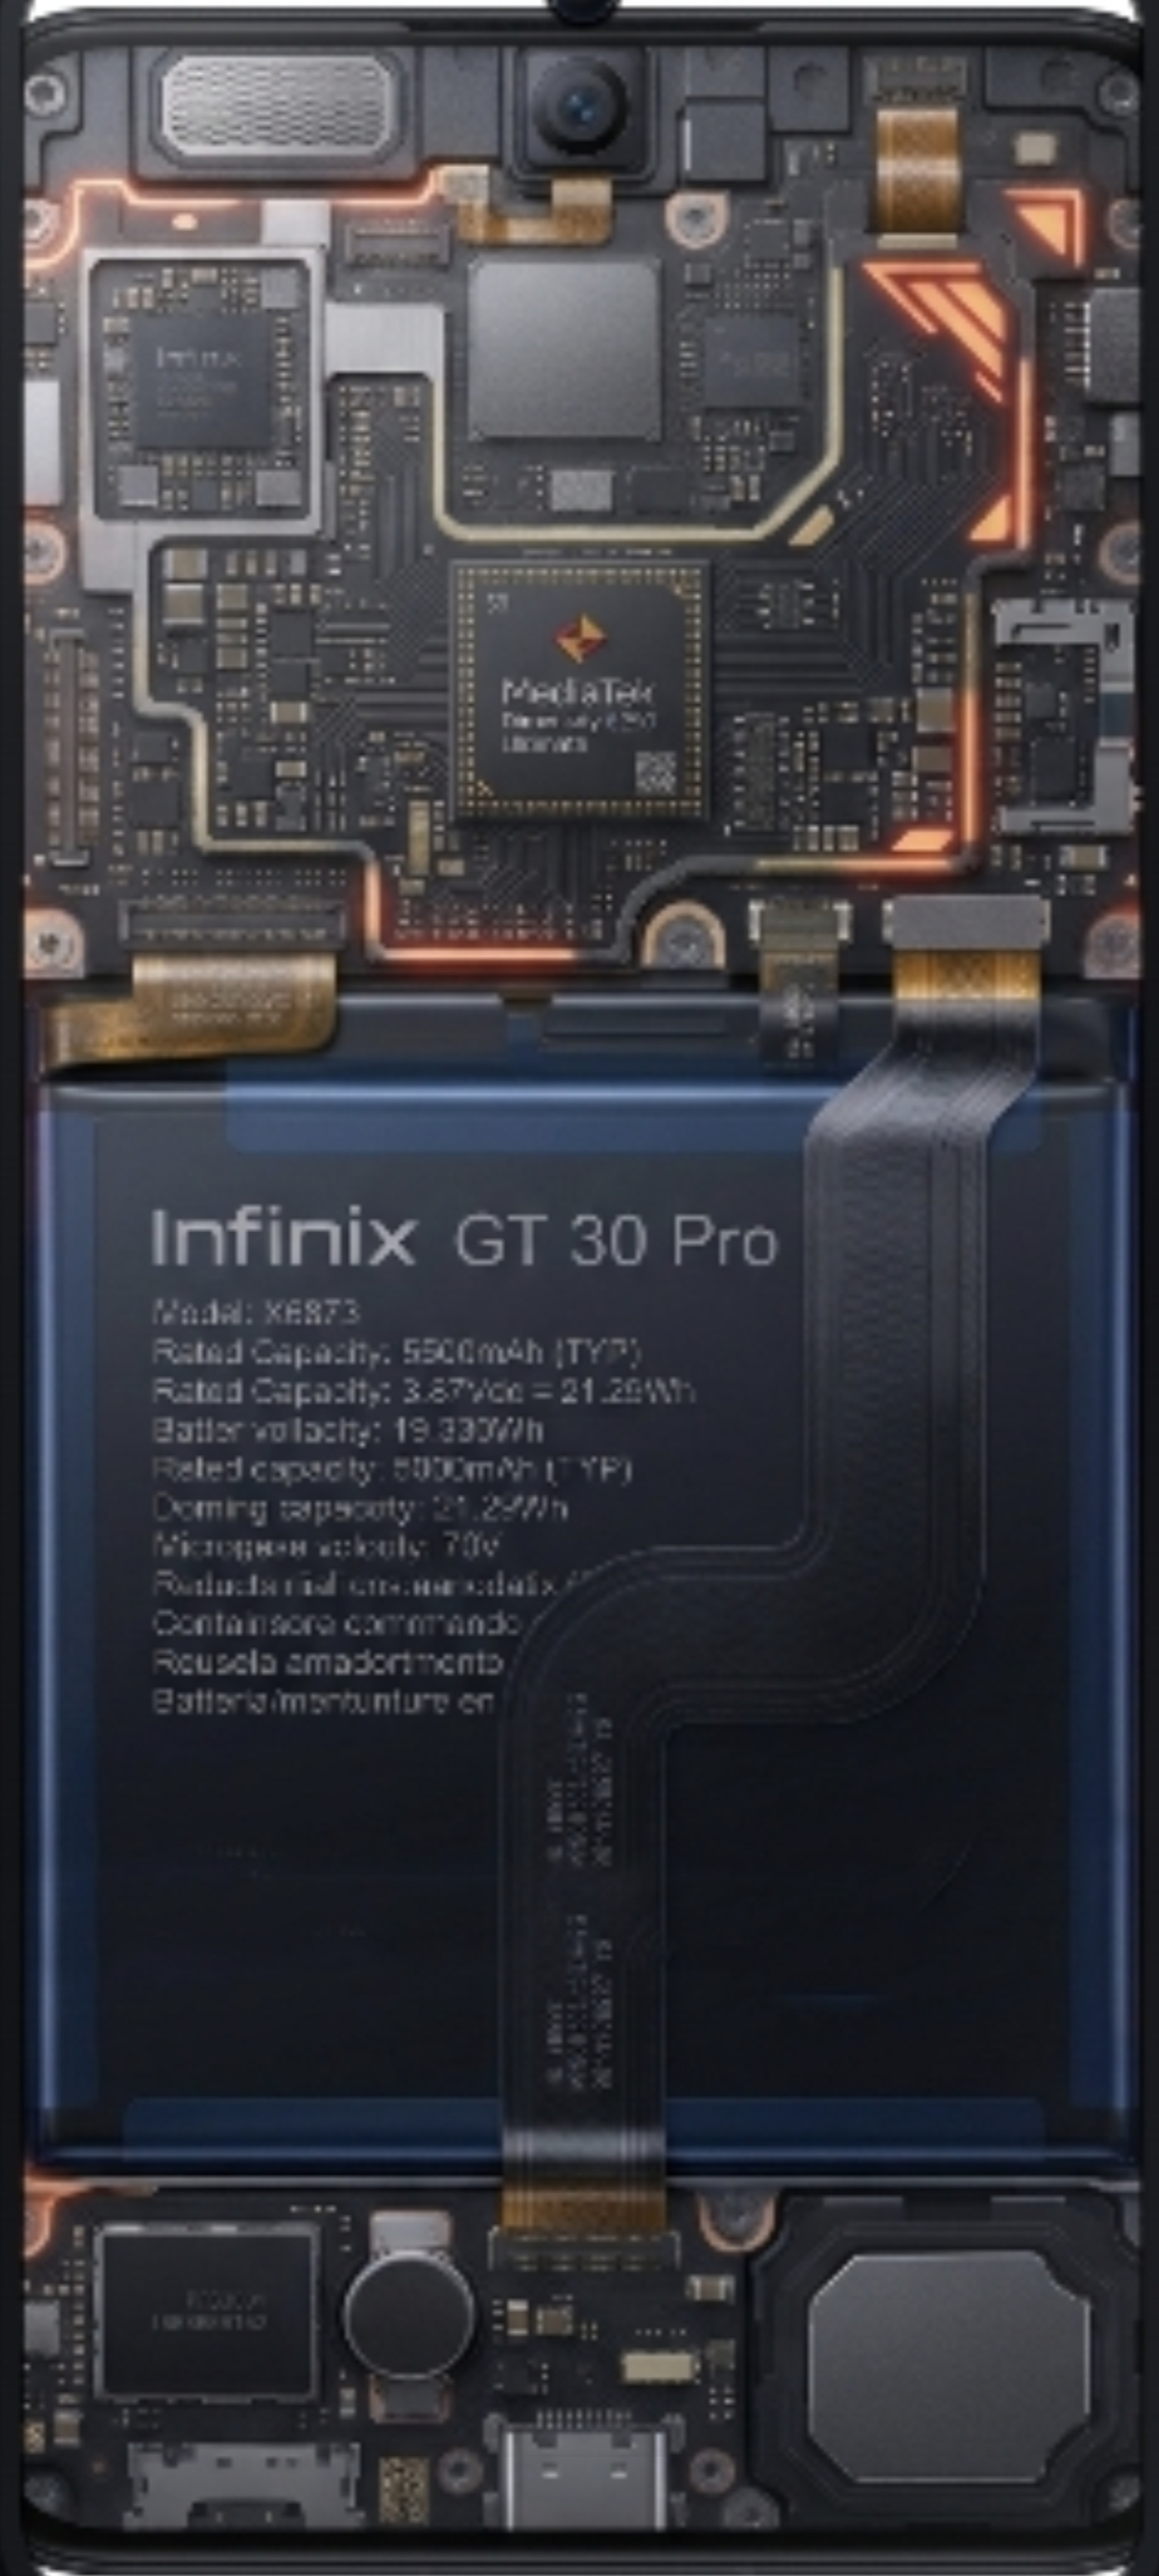
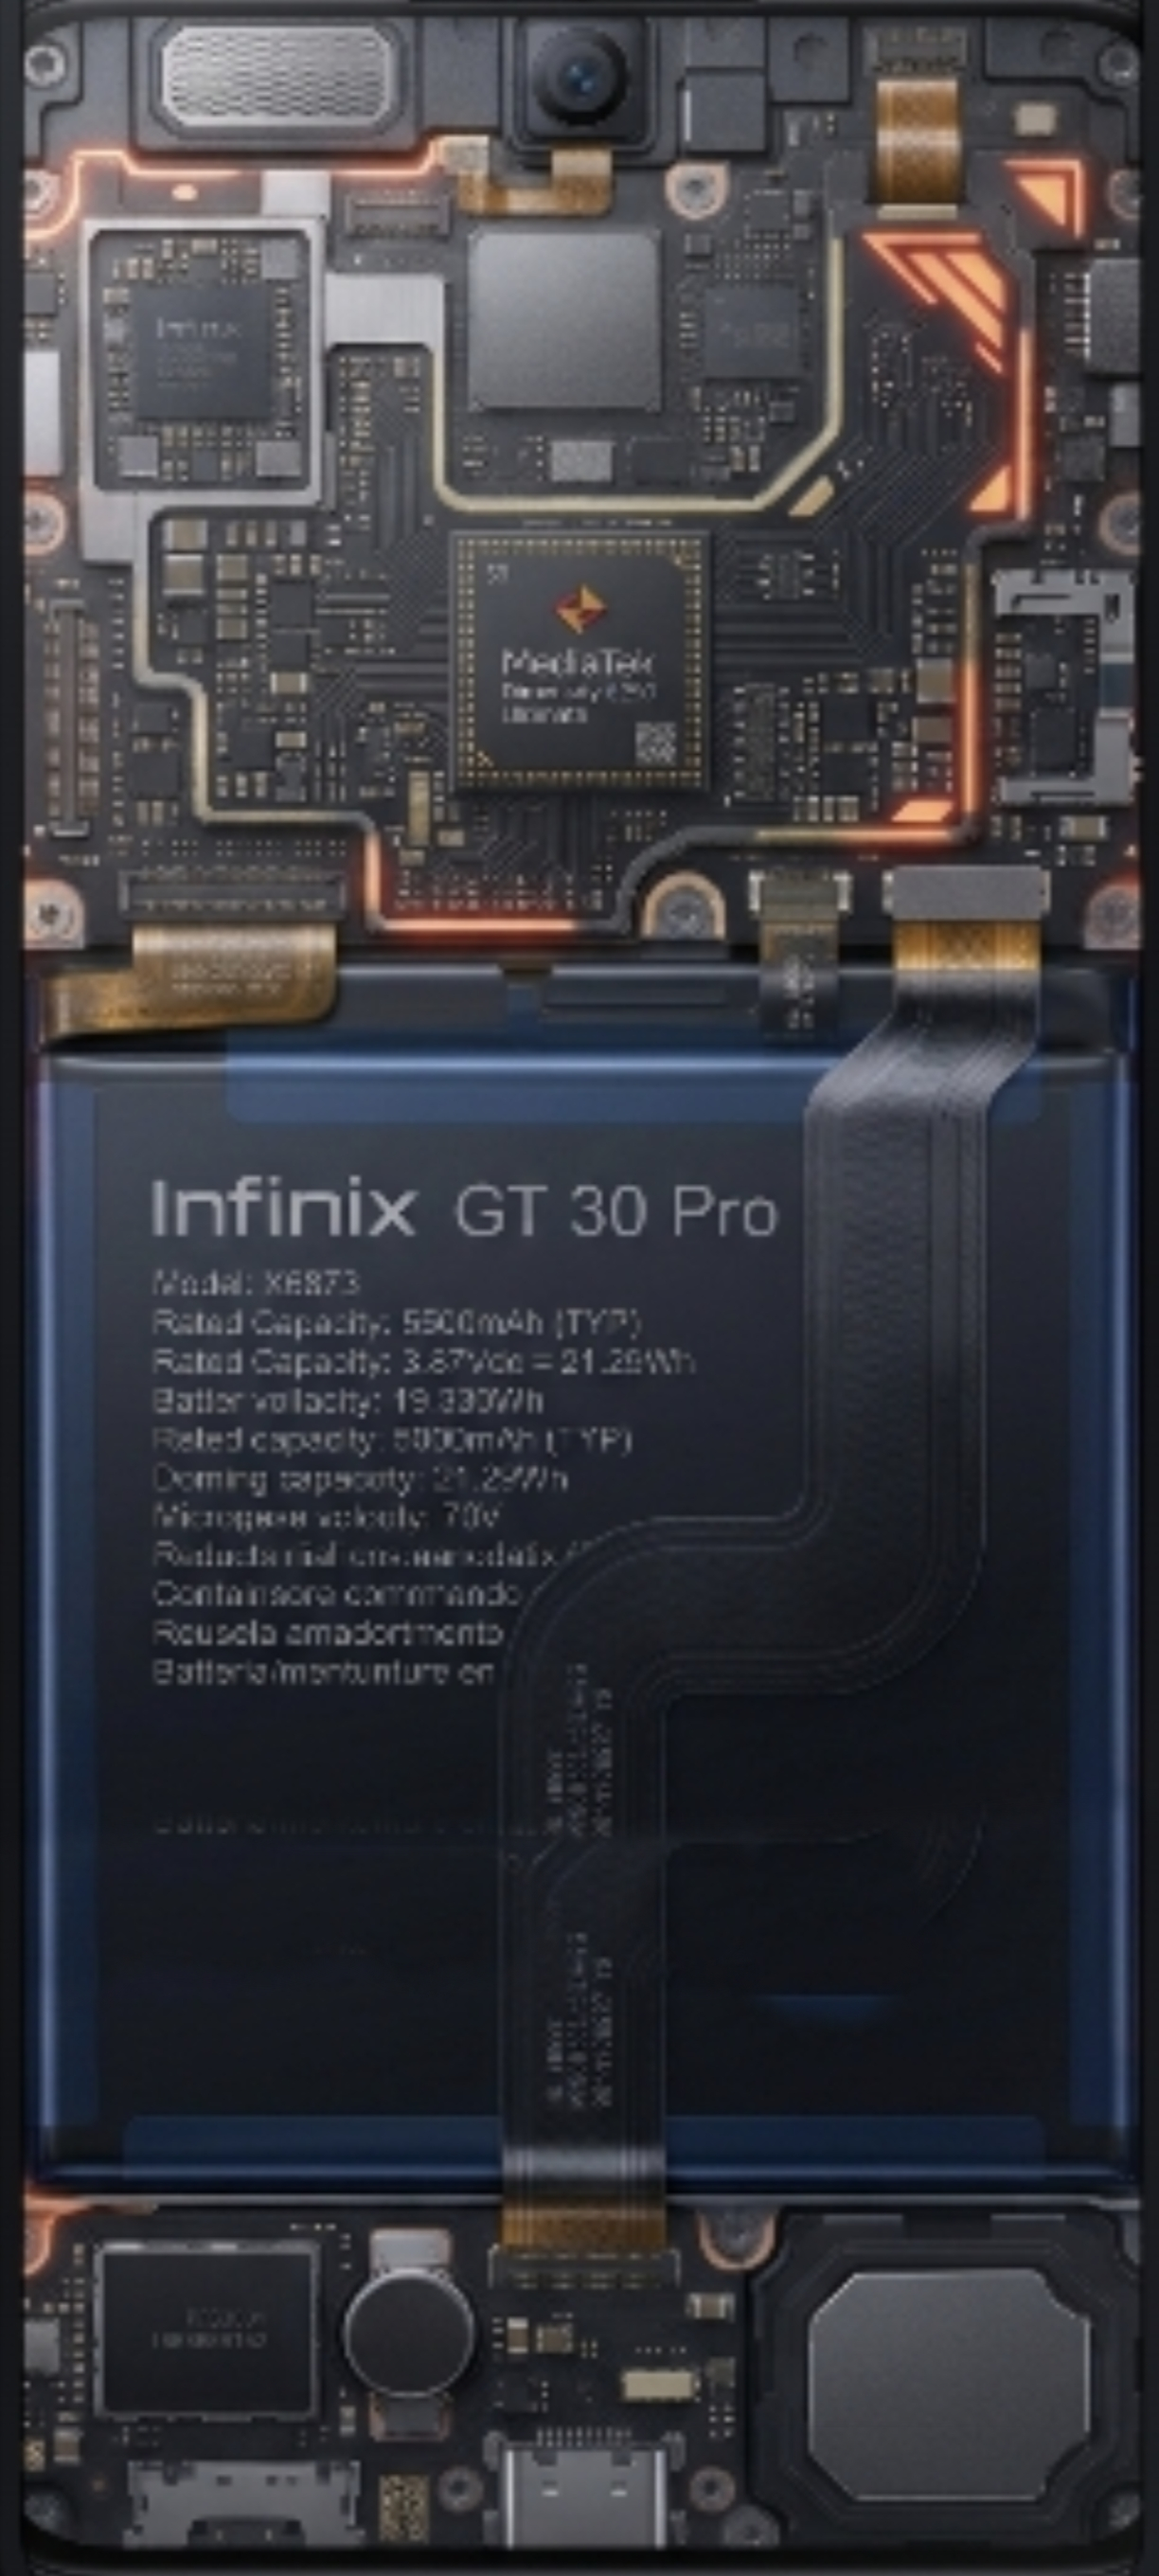
preview: ganti background dengan render GT 30 Pro versi baru (1224x2720)

diff --git a/preview/index.html b/preview/index.html
@@ -21,7 +21,7 @@
   .bg {
     position: fixed;
     inset: -6%;
-    background: url("assets/gt30pro-internals.jpg?v=2") center/cover no-repeat;
+    background: url("assets/gt30pro-internals.jpg?v=3") center/cover no-repeat;
     filter: blur(52px) saturate(1.15) brightness(0.34);
     transform: scale(1.08);
     z-index: 0;
@@ -172,7 +172,7 @@
   .wallpaper {
     position: absolute;
     inset: 0;
-    background: url("assets/gt30pro-internals.jpg?v=2") center/cover no-repeat;
+    background: url("assets/gt30pro-internals.jpg?v=3") center/cover no-repeat;
     transition: transform .12s ease-out, filter .12s ease-out;
     will-change: transform, filter;
   }
